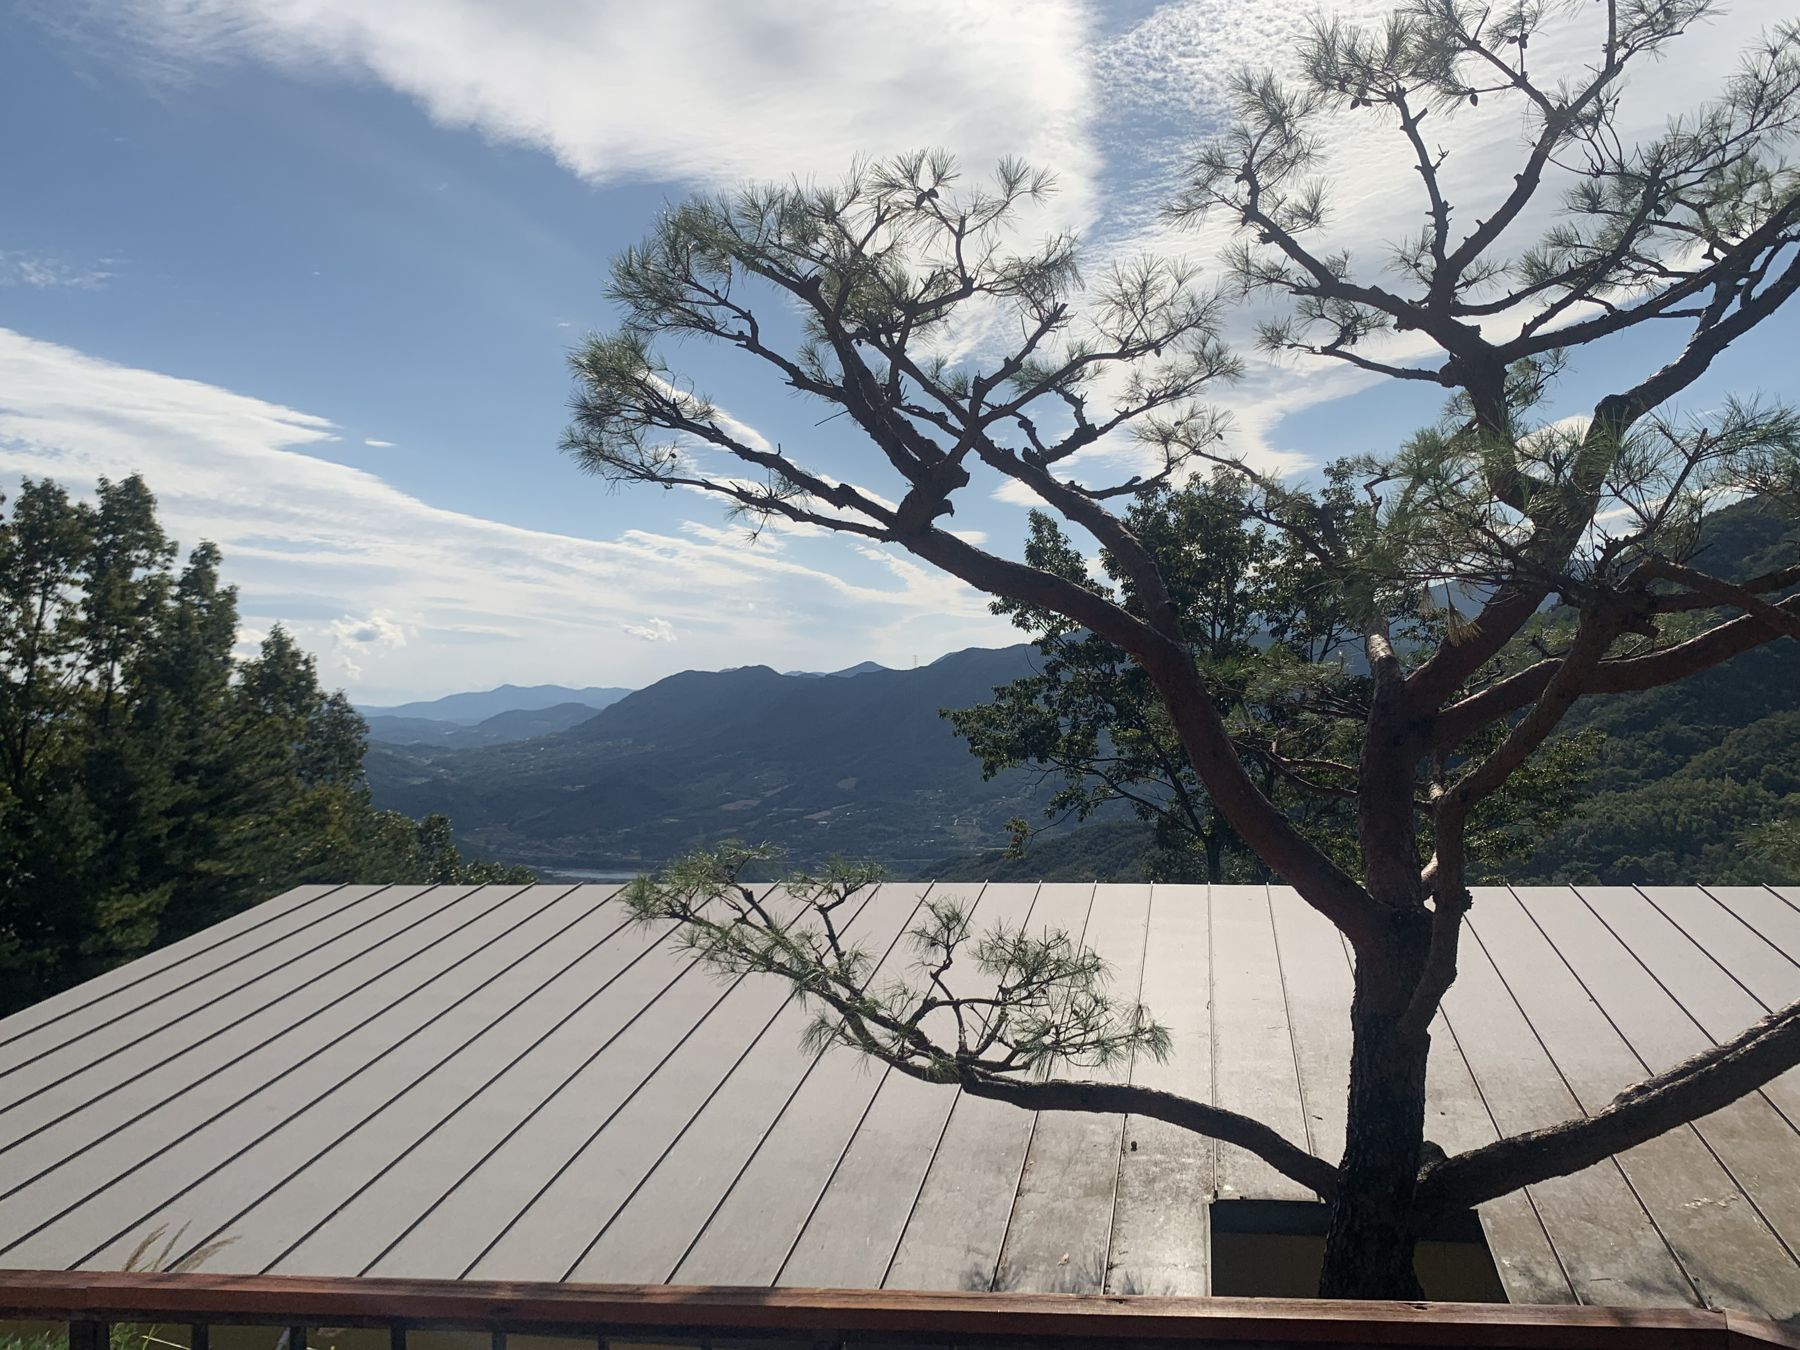
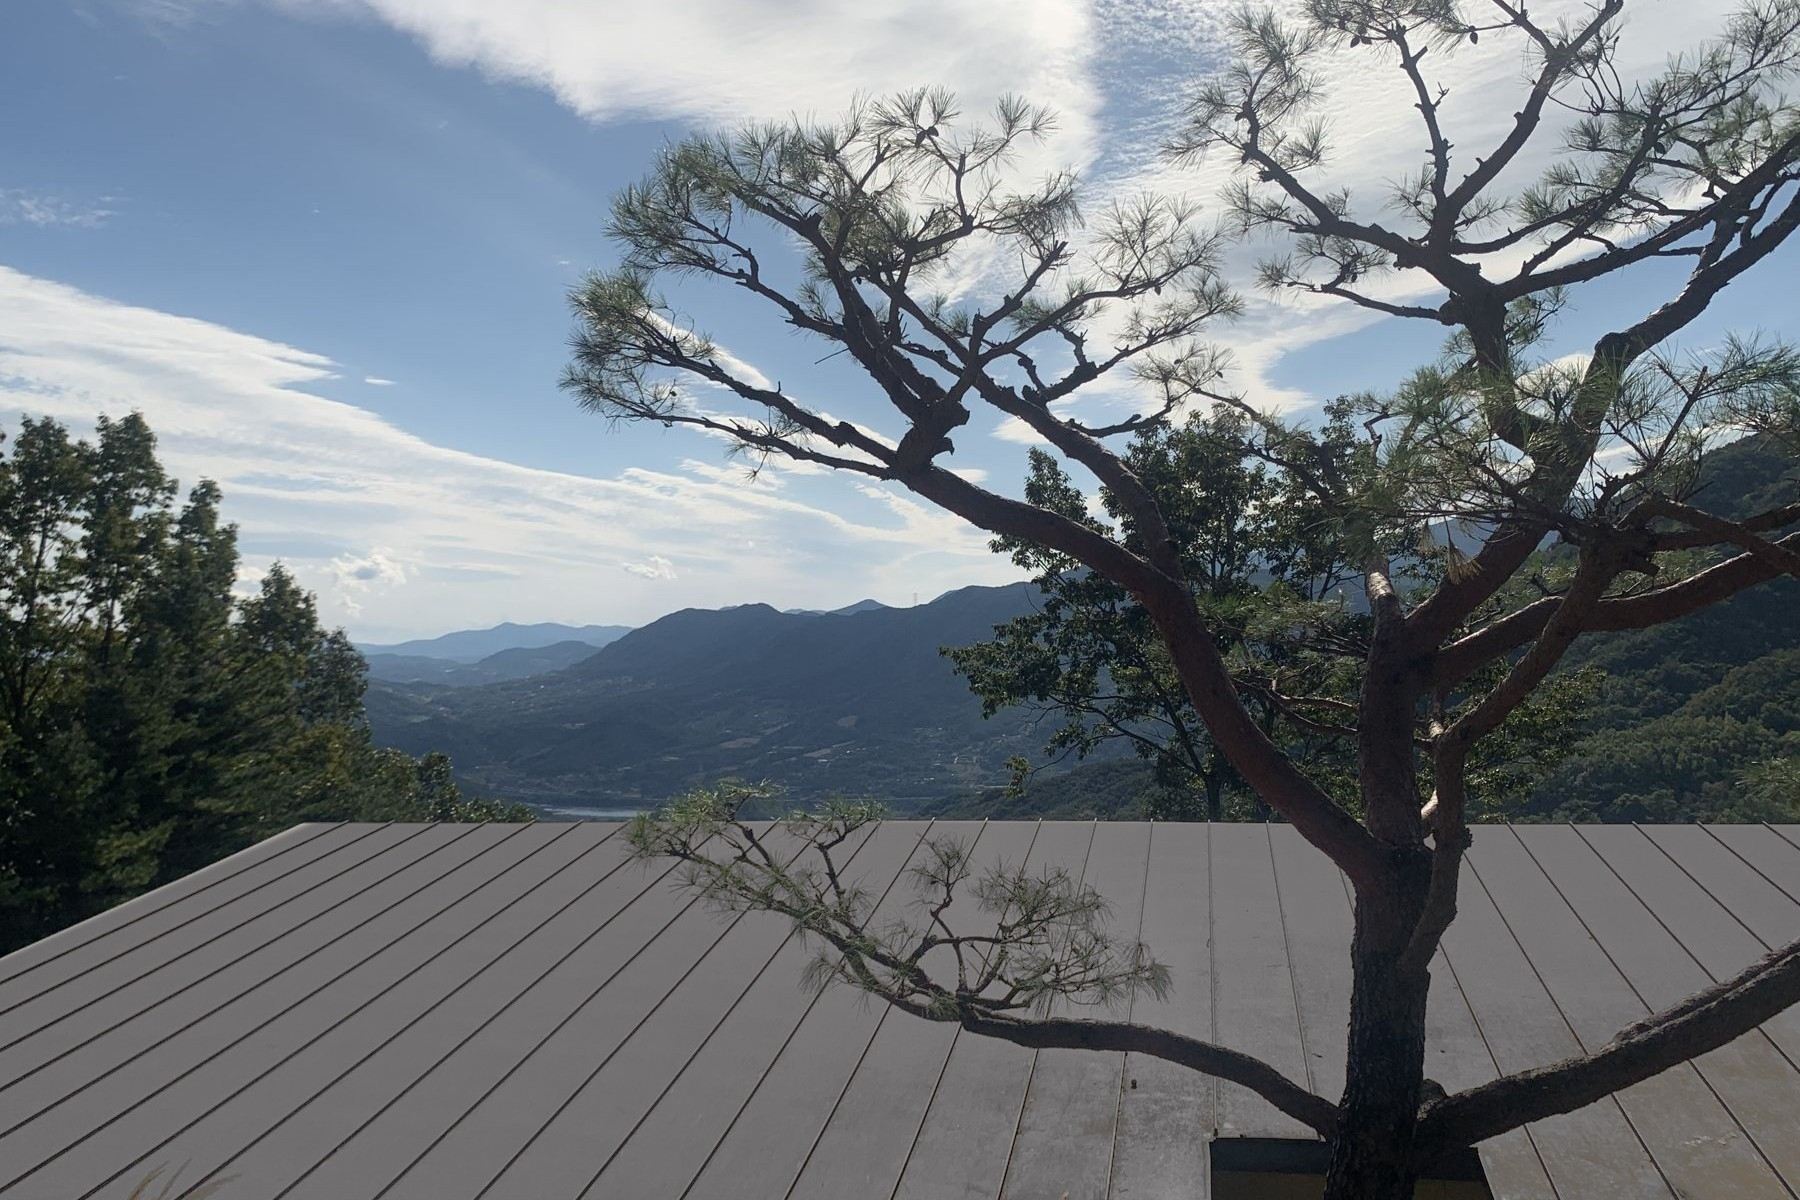
이야기: 첫 사진 억새(45번), 소나무 사진 지붕 보정·난간 잘라냄

diff --git a/story.html b/story.html
@@ -40,11 +40,11 @@
   </div>
 </div>
 <main class="flow">
-<figure class="hero"><img src="img/p07.jpg" alt="창밖으로 보이는 지리산 능선" width="1800" height="1350" fetchpriority="high"></figure>
+<figure class="hero"><img src="img/story.jpg" alt="억새와 단풍 사이로 보이는 스테이솔숲 지붕과 겹겹의 능선" width="2800" height="1867" fetchpriority="high" style="object-position:58% 60%"></figure>
 <section class="col title"><p class="eyebrow">STORY</p><h1>이야기</h1></section>
 <section class="col poem"><p>산청에는 아는 사람도,<br>특별한 인연도 없었습니다.</p><p>그저 지금과는 다른 삶을 살아보고 싶어서<br>지낼 곳을 찾아다녔습니다.</p><p>남해에서 안동까지.<br>그렇게 약 3년을 다녔지만<br>쉽게 마음을 정할 수는 없었습니다.</p><p>그러다 산청의 이 집을 만났습니다.</p><p>소나무 사이로 시야가 열리고,<br>멀리 지리산이 겹겹이 이어지는 풍경.</p><p>집으로 돌아간 뒤에도<br>자꾸 그곳이 떠올랐습니다.</p><p>계절과 날씨를 달리해 몇 번이고 다시 찾았습니다.<br>다시 와도 좋았고,<br>오래 바라봐도 질리지 않았습니다.</p><p>결국 우리는<br>새로 집을 지을 땅이 아니라<br>그 풍경을 바라보던 집을 선택했습니다.</p><p>그리고 그 집 아래 땅에<br>스테이솔숲을 지었습니다.</p><p>오래 마음에 남았던 이 풍경은<br>지금 스테이솔숲을 찾아오는 분들과<br>나누고 싶은 풍경이 되었습니다.</p></section>
 <section class="col chapter"><h2>소나무 한 그루</h2><div class="poem"><p>원래 집 마당에 있던 소나무입니다.</p><p>자르고 지으면 편했을 거예요.<br>공간도 넓어지고, 비용도 적게 들고요.</p><p>그래도 소나무를 살리기로 했습니다.<br>소나무를 비켜서 집을 짓고,<br>그쪽에 창을 두어<br>소나무를 바라보게 했습니다.</p></div></section>
-<figure class="ph ph-l"><div class="ph-box" style="aspect-ratio:4 / 3"><img src="img/p02.jpg" alt="소나무 아래 지붕과 지리산 능선" width="1800" height="1350" loading="lazy" decoding="async"></div></figure>
+<figure class="ph ph-l"><div class="ph-box" style="aspect-ratio:3 / 2"><img src="img/p02.jpg" alt="소나무 아래 지붕과 지리산 능선" width="1800" height="1200" loading="lazy" decoding="async"></div></figure>
 <section class="col chapter"><h2>매번 다른 산</h2><div class="poem"><p>창밖 풍경은 계절마다,<br>하루에도 시시각각 달라집니다.</p><p>운무가 골짜기를 채우는 아침,<br>비 내리는 오후,<br>불을 끈 밤.</p><p>같은 자리에서<br>매번 다른 산을 봅니다.</p></div></section>
 <figure class="ph ph-l"><div class="ph-box" style="aspect-ratio:16 / 10"><img src="img/fogsea.jpg" alt="골짜기를 채운 아침 운무" width="1800" height="1728" loading="lazy" decoding="async" style="object-position:50% 70%"></div></figure>
 <section class="col poem"><p>해가 능선 너머로 넘어가면<br>구름이 먼저 물들고,<br>산은 천천히 어두워집니다.</p><p>데크에 서면 이 풍경이 눈앞에 있고,<br>집 안에서는 창에 그대로 담깁니다.</p><p>처음 이 집을 만났을 때<br>마음을 붙든 것도<br>이 시간의 풍경이었습니다.</p></section>
